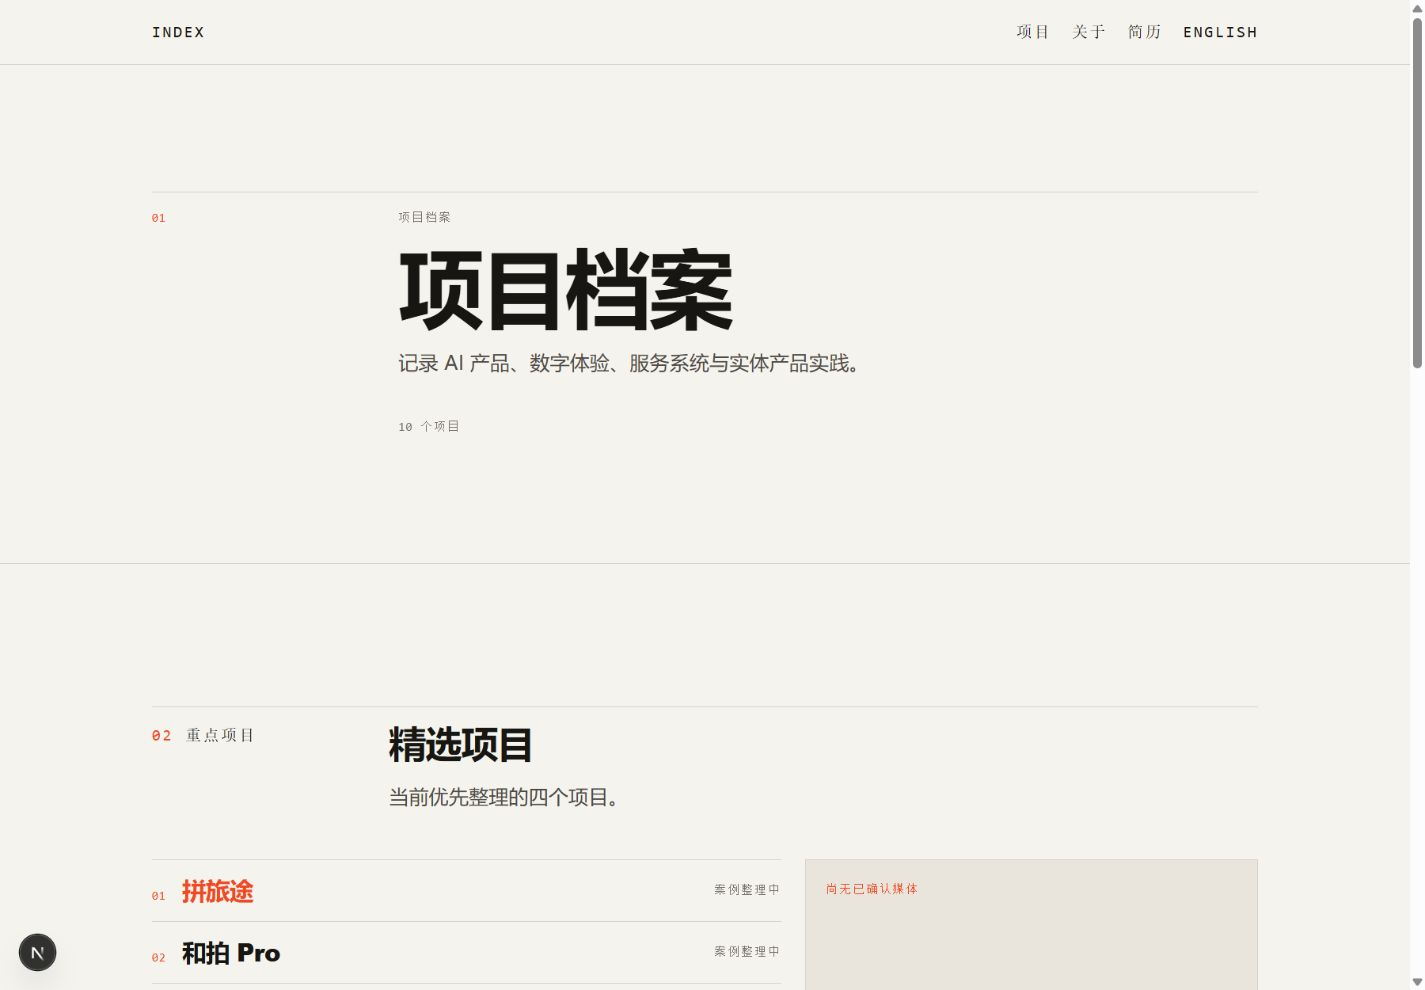
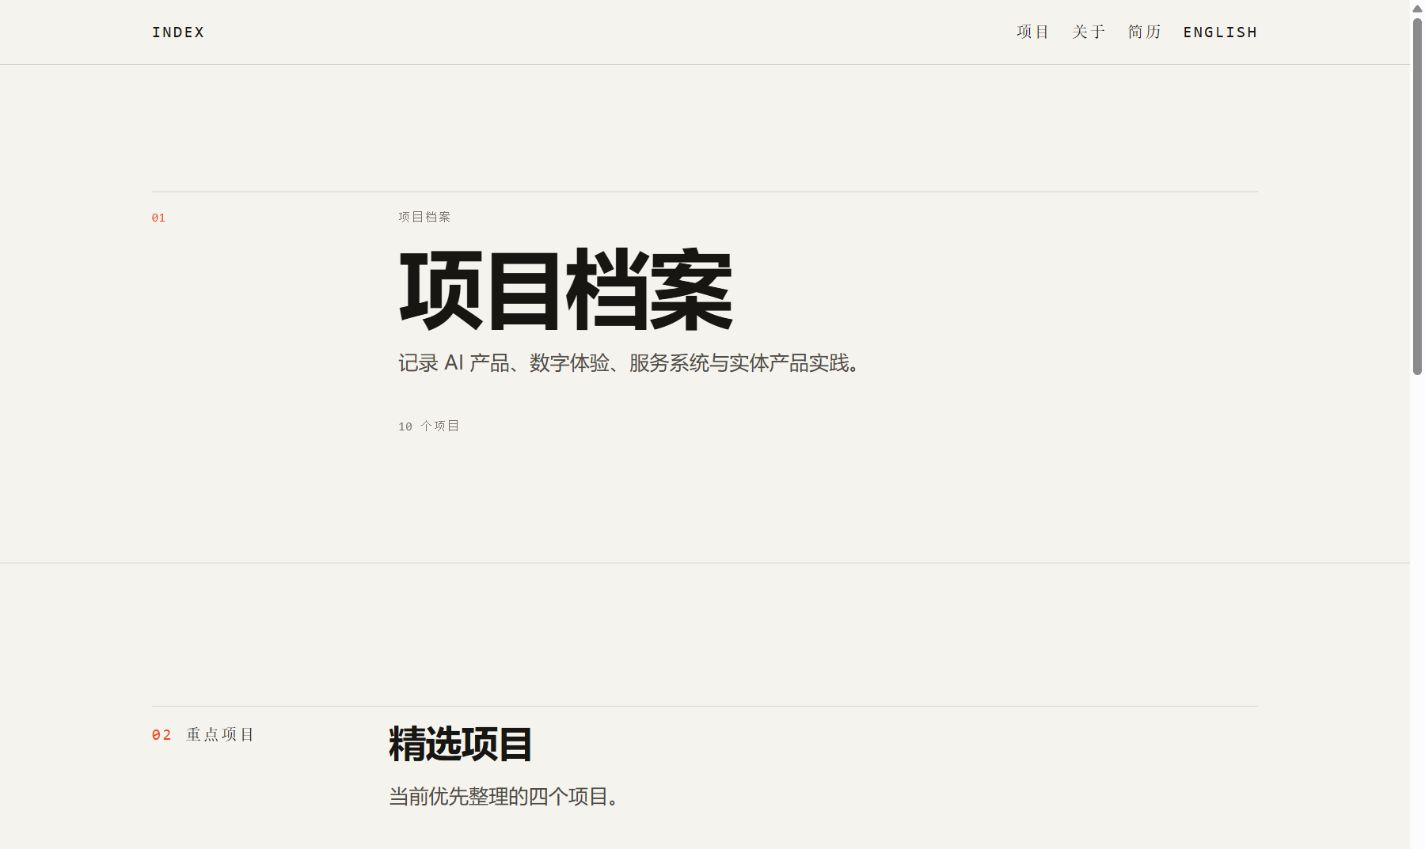
refactor: refine project archive pending states

diff --git a/components/project/project-index.tsx b/components/project/project-index.tsx
@@ -1,5 +1,6 @@
 import { ProjectIndexRow } from "@/components/project/project-index-row";
 import { SectionHeader } from "@/components/ui/section-header";
+import { getSharedContentStatus } from "@/data/projects";
 import type { Dictionary, Locale, Project } from "@/types/content";
 
 interface ProjectIndexProps {
@@ -9,13 +10,25 @@ interface ProjectIndexProps {
 }
 
 export function ProjectIndex({ dictionary, locale, projects }: ProjectIndexProps) {
+  const sharedStatus = getSharedContentStatus(projects);
+  const hideRepeatedPendingStatus = sharedStatus === "content-pending";
+
   return (
     <section
       aria-labelledby="project-index-title"
       className="pb-[var(--space-section)]"
     >
       <SectionHeader
-        description={dictionary.projects.indexDescription}
+        description={
+          <>
+            <span>{dictionary.projects.indexDescription}</span>
+            {hideRepeatedPendingStatus ? (
+              <span className="mt-2 block text-[var(--foreground-muted)]">
+                {dictionary.projects.indexUniformPendingNote}
+              </span>
+            ) : null}
+          </>
+        }
         eyebrow={dictionary.projects.indexLabel}
         index="03"
         title={<span id="project-index-title">{dictionary.projects.indexTitle}</span>}
@@ -27,6 +40,7 @@ export function ProjectIndex({ dictionary, locale, projects }: ProjectIndexProps
             key={project.slug}
             locale={locale}
             project={project}
+            showStatus={!hideRepeatedPendingStatus}
           />
         ))}
       </div>

diff --git a/components/project/project-index-row.tsx b/components/project/project-index-row.tsx
@@ -7,6 +7,7 @@ interface ProjectIndexRowProps {
   dictionary: Dictionary;
   locale: Locale;
   project: Project;
+  showStatus?: boolean;
 }
 
 function getActionLabel(status: ContentStatus, dictionary: Dictionary): string {
@@ -15,7 +16,12 @@ function getActionLabel(status: ContentStatus, dictionary: Dictionary): string {
   return dictionary.projects.caseStudyInProgress;
 }
 
-export function ProjectIndexRow({ dictionary, locale, project }: ProjectIndexRowProps) {
+export function ProjectIndexRow({
+  dictionary,
+  locale,
+  project,
+  showStatus = true,
+}: ProjectIndexRowProps) {
   const title = getLocalizedText(project.title, locale);
   const action = getActionLabel(project.contentStatus, dictionary);
   const metadata = [project.categories?.[0], project.year].filter(Boolean);
@@ -34,12 +40,14 @@ export function ProjectIndexRow({ dictionary, locale, project }: ProjectIndexRow
           </p>
         ) : null}
       </div>
-      <span
-        className="type-label shrink-0 text-[var(--foreground-muted)]"
-        data-status={project.contentStatus}
-      >
-        {action}
-      </span>
+      {showStatus ? (
+        <span
+          className="type-label shrink-0 text-[var(--foreground-muted)]"
+          data-status={project.contentStatus}
+        >
+          {action}
+        </span>
+      ) : null}
     </article>
   );
 

diff --git a/data/projects.ts b/data/projects.ts
@@ -1,4 +1,4 @@
-import type { Project } from "@/types/content";
+import type { ContentStatus, Project } from "@/types/content";
 
 export const projects = [
   {
@@ -93,6 +93,28 @@ export function getProjects(): readonly Project[] {
 
 export function getFeaturedProjects(): readonly Project[] {
   return projects.filter((project) => project.featured);
+}
+
+/** A Registry media asset is only present after it has been approved for display. */
+export function hasApprovedProjectMedia(project: Project): boolean {
+  return Boolean(project.cover || project.thumbnail);
+}
+
+export function hasApprovedMedia(projectsToCheck: readonly Project[]): boolean {
+  return projectsToCheck.some(hasApprovedProjectMedia);
+}
+
+export function getSharedContentStatus(
+  projectsToCheck: readonly Project[],
+): ContentStatus | undefined {
+  const [firstProject] = projectsToCheck;
+  if (!firstProject) return undefined;
+
+  return projectsToCheck.every(
+    (project) => project.contentStatus === firstProject.contentStatus,
+  )
+    ? firstProject.contentStatus
+    : undefined;
 }
 
 export const featuredProjects = getFeaturedProjects();

diff --git a/components/motion/project-preview.tsx b/components/motion/project-preview.tsx
@@ -23,6 +23,7 @@ interface ProjectPreviewProps {
   };
   mode: ProjectPreviewMode;
   replayKey: number;
+  showPreview?: boolean;
 }
 
 function NeutralPreview({
@@ -50,6 +51,7 @@ export function ProjectPreview({
   labels,
   mode,
   replayKey,
+  showPreview = true,
 }: ProjectPreviewProps) {
   const { durations, prefersReducedMotion } = useMotionSettings();
   const [activeIndex, setActiveIndex] = useState(0);
@@ -67,7 +69,7 @@ export function ProjectPreview({
   return (
     <div
       className={
-        mode === "fixed"
+        mode === "fixed" && showPreview
           ? "grid gap-6 lg:grid-cols-[minmax(0,1fr)_minmax(16rem,0.72fr)]"
           : "relative"
       }
@@ -122,7 +124,7 @@ export function ProjectPreview({
           );
         })}
       </div>
-      {mode === "fixed" ? (
+      {mode === "fixed" && showPreview ? (
         <motion.div
           animate={{ opacity: 1, y: 0 }}
           initial={{ opacity: 0, y: prefersReducedMotion ? 0 : 6 }}

diff --git a/components/project/featured-projects.tsx b/components/project/featured-projects.tsx
@@ -1,5 +1,6 @@
 import { ProjectPreview } from "@/components/motion/project-preview";
 import { SectionHeader } from "@/components/ui/section-header";
+import { hasApprovedMedia } from "@/data/projects";
 import { getLocalizedText } from "@/lib/i18n";
 import type { Dictionary, Locale, Project } from "@/types/content";
 
@@ -14,6 +15,8 @@ export function FeaturedProjects({
   locale,
   projects,
 }: FeaturedProjectsProps) {
+  const previewAvailable = hasApprovedMedia(projects);
+
   return (
     <section
       aria-labelledby="featured-projects-title"
@@ -45,6 +48,7 @@ export function FeaturedProjects({
           }}
           mode="fixed"
           replayKey={0}
+          showPreview={previewAvailable}
         />
       </div>
     </section>

diff --git a/data/dictionaries/en.ts b/data/dictionaries/en.ts
@@ -98,10 +98,11 @@ export const enDictionary = {
     indexLabel: "Complete index",
     indexTitle: "All projects",
     indexDescription: "A scannable index of ten portfolio projects.",
+    indexUniformPendingNote: "All listed case studies are currently in progress.",
     projectCountLabel: "projects",
     caseStudyInProgress: "Case study in progress",
     viewCase: "View case",
     viewProgress: "View progress",
-    noApprovedMedia: "No approved media",
+    noApprovedMedia: "Media pending",
   },
 } satisfies Dictionary;

diff --git a/data/dictionaries/zh.ts b/data/dictionaries/zh.ts
@@ -89,10 +89,11 @@ export const zhDictionary = {
     indexLabel: "完整索引",
     indexTitle: "全部项目",
     indexDescription: "10 个项目的可扫描档案索引。",
+    indexUniformPendingNote: "当前项目案例均在整理中。",
     projectCountLabel: "个项目",
     caseStudyInProgress: "案例整理中",
     viewCase: "查看案例",
     viewProgress: "查看阶段内容",
-    noApprovedMedia: "尚无已确认媒体",
+    noApprovedMedia: "媒体待补充",
   },
 } satisfies Dictionary;

diff --git a/types/content.ts b/types/content.ts
@@ -119,6 +119,7 @@ export interface Dictionary {
     indexLabel: string;
     indexTitle: string;
     indexDescription: string;
+    indexUniformPendingNote: string;
     projectCountLabel: string;
     caseStudyInProgress: string;
     viewCase: string;

diff --git a/docs/PROJECTS-SPEC.md b/docs/PROJECTS-SPEC.md
@@ -14,7 +14,7 @@ The Projects route is the portfolio's complete evidence archive. It makes the re
 
 ## Featured Logic
 
-Featured work is obtained through `getFeaturedProjects()`. Desktop uses the approved Fixed Preview interaction. Mobile retains the list and a static neutral preview region, with no hover dependency.
+Featured work is obtained through `getFeaturedProjects()`. Its preview is a progressive enhancement, controlled by the availability rule below. Mobile remains list-first and has no hover dependency.
 
 ## Complete Archive Logic
 
@@ -49,7 +49,18 @@ Pending project detail routes are not linked from the archive or listed in the s
 
 ## Media Rules
 
-The featured preview is a flexible media container, not a universal cover template. It may later contain an approved cover, UI screenshot, industrial render, poster, diagram, video poster, or neutral pending state. Current Registry records have no approved media, so only the neutral state renders.
+The featured preview is a flexible media container, not a universal cover template. It may later contain an approved cover, UI screenshot, industrial render, poster, diagram, video poster, or neutral pending state for an individual project without media.
+
+## Preview Availability Rule
+
+- **0 approved featured media:** render the Featured list in full-width archive mode. Do not show a large neutral media container.
+- **At least 1 approved featured media:** render the approved Archive List plus Fixed Preview layout. A hovered or focused featured project without its own media may use the restrained neutral state.
+
+The Preview API, keyboard focus behavior, and media mapping remain in place in both states. The no-media layout changes only the presentation condition, not the future interaction contract.
+
+## Repeated Pending-State Presentation Rule
+
+When every project in the Complete Index has the same `content-pending` status, present one section-level status explanation and suppress the repetitive row-level label. The Registry keeps every individual status. If statuses diverge, row-level status presentation returns automatically.
 
 ## Taxonomy Rules
 

diff --git a/specs/2026-09-01-projects-archive/requirements.md b/specs/2026-09-01-projects-archive/requirements.md
@@ -28,3 +28,5 @@ Replace the foundation Projects route with a bilingual, data-driven editorial ar
 - A public archive never exposes `[CONTENT TODO]` for the current pending registry.
 - Pending rows are not links; ready and partial records can become links through the same component.
 - The route has localized metadata and no horizontal overflow at 375, 390, 768, 1024, and 1440 pixels.
+- Featured work does not reserve a large preview region while every featured record lacks approved media.
+- A uniform pending status is explained once at index-section level rather than repeated across all rows.
